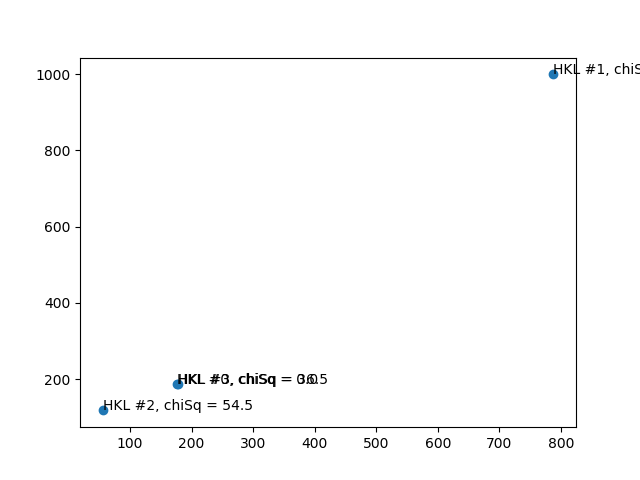
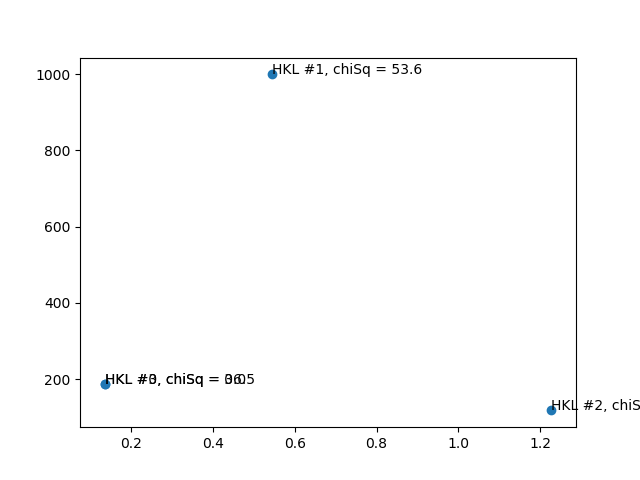
Updated epGreedyBumpsTest.py

diff --git a/hklgen/examples/sxtal/epGreedy/epGreedyBumpsTest.py b/hklgen/examples/sxtal/epGreedy/epGreedyBumpsTest.py
@@ -234,10 +234,10 @@ def test_algorithm(agent, actions, num_sims, horizon, numParameters):
 #	        arrowprops=dict(arrowstyle = '->', connectionstyle='arc3,rad=0'))
 
 	fig,ax = plt.subplots()
-	ax.scatter(x1, y)
+	ax.scatter(qSquared, y)
 	
 	for i, txt in enumerate(labels):
-		ax.annotate(txt, (x1[i], y[i]))
+		ax.annotate(txt, (qSquared[i], y[i]))
 
 
 #	plt.scatter(qSquared,y)
